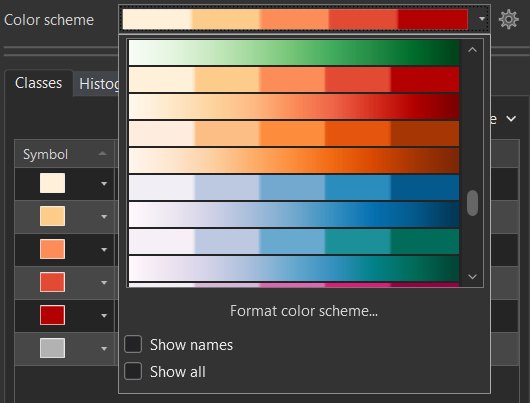
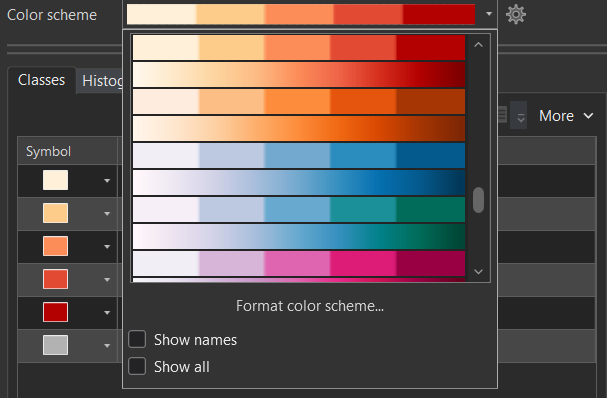
kartogram v ArcGIS Pro (barevné stupnice)+zakomentování kartodiagramu pro IP

diff --git a/docs/kartogram.md b/docs/kartogram.md
@@ -37,9 +37,9 @@ Nejřidší šrafování odopvídá nejnižší intenzitě jevu, nejhustší pak
   <figcaption>Nejjednodušší řešení rastru pro kartogram (Kaňok, Voženílek, 2011)</figcaption>
 </figure>
 
-!!! note "Jak na kartogram v ArcGIS Pro"
+!!! note "Jednoduchý kartogram v ArcGIS Pro"
 
-    **1.      Rozdělení dat do intervalů**
+    **Rozdělení dat do intervalů**
     
     - zvolíme vhodnou metodu vizualizace pro kvantitativní data odpovídající definici kartogramu *--> Primary symbology-Graduated Colors*
     - zvolíme data, která chceme vizualizovat (*Field*) 
@@ -52,4 +52,15 @@ Nejřidší šrafování odopvídá nejnižší intenzitě jevu, nejhustší pak
     <figcaption>Kartogram - klasifikace dat v ArcGIS Pro</figcaption>
     </figure>
 
-    **2.      Vizualizace dat**
+    **Vizualizace dat**
+    
+      - **barevná stupnice:** 
+          - barvu lze postupně definovat pro jednotlivé intervaly *(Classes-Symbol)* či zvolit jednu z předdefinovaných barevných stupnic *(Color scheme)*, které je možné dodatečně formátovat *(Format color scheme)*, což se hodí například pro tvorbu divergentní barevné stupnice, která není v nabídce barevných stupnic defaultně dostupná
+      
+      <figure markdown>
+     ![Barevná stupnice](../assets/Uloha3/kartogram_symbology_barvy1.png "Barevné stupnice v  ArcGIS Pro""){ width=400px }
+    <figcaption>Barevné stupnice v  ArcGIS Pro</figcaption>
+    </figure>
+    
+      - **rastrová stupnice:**
+          - tvorba rastrové stupnice 
